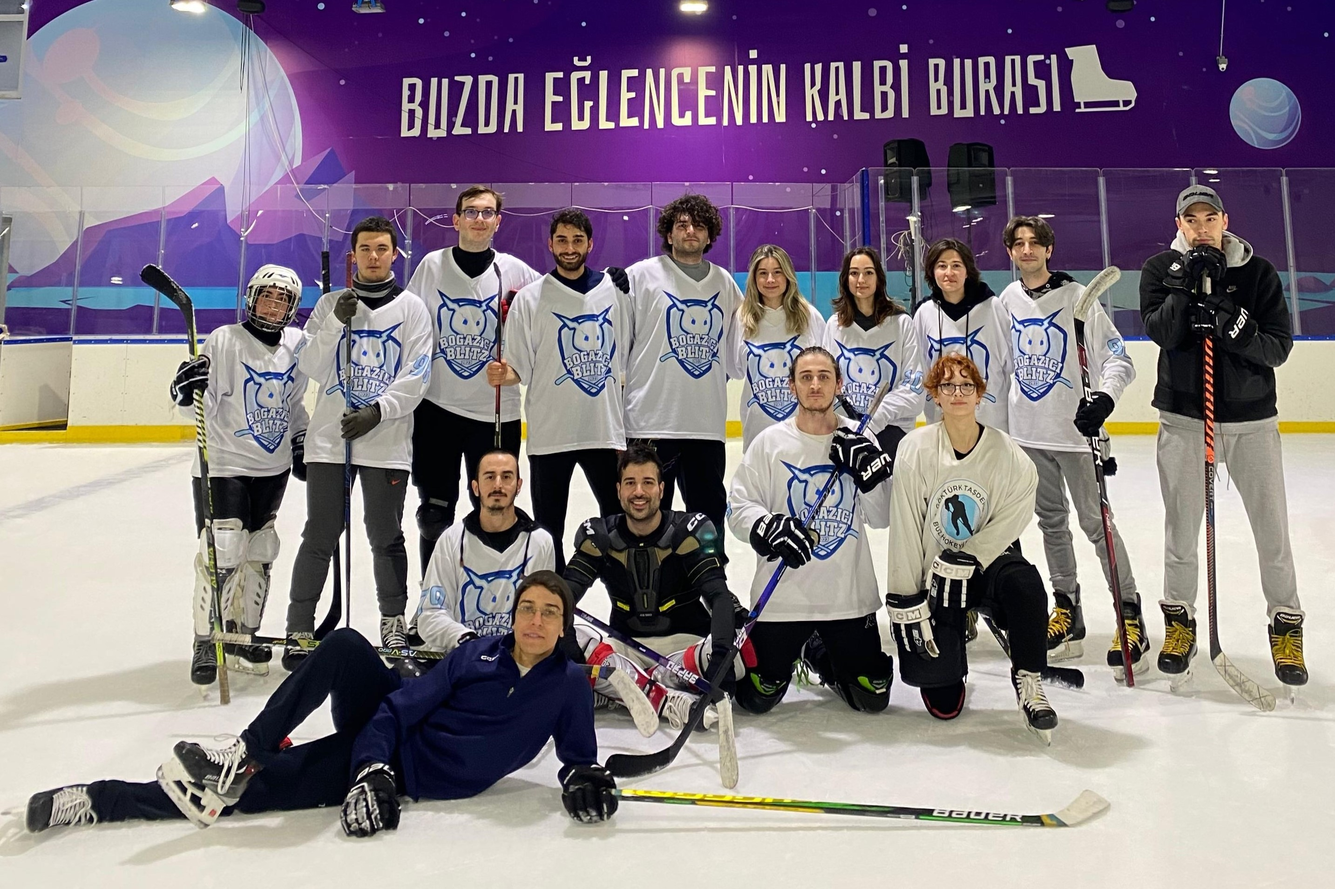
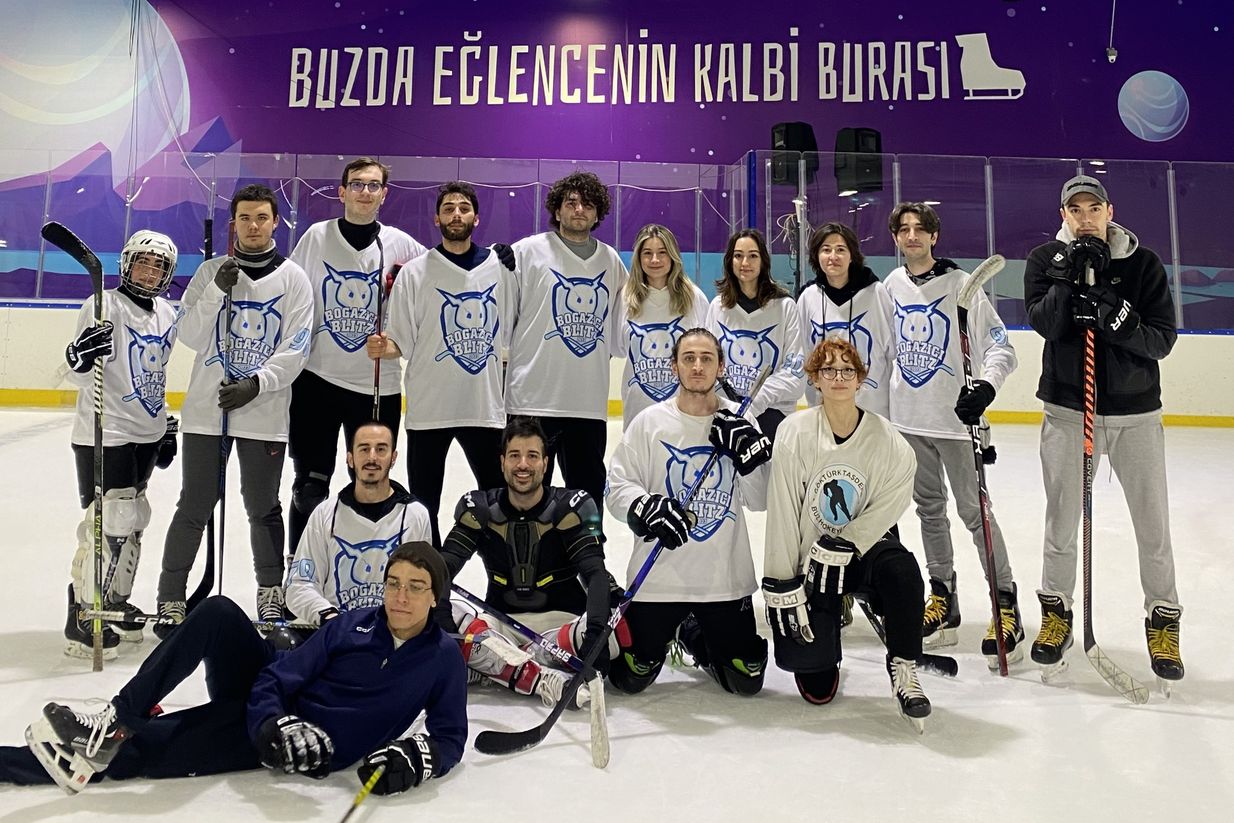
Main and team photos changed

diff --git a/data/projectsData.ts b/data/projectsData.ts
@@ -19,21 +19,21 @@ const projectsData = [
   {
     title: 'Sıtkı Mete Üçyiğitler',
     description: `İkinci Kaptan`,
-    imgSrc: '/static/images/takim-mete1.jpg',
+    imgSrc: '/static/images/takim-mete.jpg',
     //href: '/blog/the-time-machine',
   },
 
   {
     title: 'Sueda Buyuran',
     description: `Kadın Takımı Kaptanı`,
-    imgSrc: '/static/images/takim.jpg',
+    imgSrc: '/static/images/takim-sueda.jpg',
     //href: '/blog/the-time-machine',
   },
 
   {
     title: 'Umut Gür',
     description: `Yönetim`,
-    imgSrc: '/static/images/takim-umutyeni.jpg',
+    imgSrc: '/static/images/takim-umut.jpg',
     //href: '/blog/the-time-machine',
   },
 
@@ -45,22 +45,36 @@ const projectsData = [
   },
 
   {
+    title: 'Özgür Öcalan',
+    description: ``,
+    imgSrc: '/static/images/takim-ozgur.jpg',
+    //href: '',
+  },
+
+  {
     title: 'Atakan Çavuşoğlu',
     //description: ``,
-    imgSrc: '/static/images/takim.jpg',
+    imgSrc: '/static/images/takim-atakan.jpg',
+    //href: '',
+  },
+
+  {
+    title: 'Batın Has',
+    description: ``,
+    imgSrc: '/static/images/takim-batin.jpg',
+    //href: '',
+  },
+
+  {
+    title: 'A. Bera Bekdemir',
+    description: ``,
+    imgSrc: '/static/images/takim-bera.jpg',
     //href: '',
   },
   
   {
     title: 'Sude Soral',
     //description: ``,
-    imgSrc: '/static/images/takim.jpg',
-    //href: '',
-  }, 
-  
-  {
-    title: 'Özgür Öcalan',
-    description: ``,
     imgSrc: '/static/images/takim.jpg',
     //href: '',
   },
@@ -71,14 +85,7 @@ const projectsData = [
     imgSrc: '/static/images/takim.jpg',
     //href: '',
   },
-  
-  {
-    title: 'A. Bera Bekdemir',
-    description: ``,
-    imgSrc: '/static/images/takim.jpg',
-    //href: '',
-  },
-  
+
   {
     title: 'Çağatay Hancı',
     description: ``,
@@ -112,14 +119,7 @@ const projectsData = [
     description: ``,
     imgSrc: '/static/images/takim.jpg',
     //href: '',
-  },
-  
-  {
-    title: 'Batın Has',
-    description: ``,
-    imgSrc: '/static/images/takim.jpg',
-    //href: '',
-  },
+  }, 
   
   {
     title: 'İrem Alp',

diff --git a/app/rugtumu79/page.tsx b/app/rugtumu79/page.tsx
@@ -27,6 +27,22 @@ export default function Home() {
               />
             </video>*/}
             <h2>
+              <p>"Child,</p>
+              <p>Why did no one ever teach you that you cannot turn people into homes?</p>
+              <p></p>
+              <p>People are rivers,</p>
+              <p>Ever changing,</p>
+              <p>Ever flowing.</p>
+              <p>They will disappear with everything you put inside them."</p>
+              <p>-Nikita Gill</p>
+              <p></p>
+              <p>But, the thing is to flow together!</p>
+              <p></p>
+              <p></p>
+              <p></p>
+            </h2>
+
+            <h2>
               "Hangi hakikat olursa olsun, ne denli yıkıcı olursa olsun katlanabilir, yeter ki her
               şeyin yerini tutsun, yeter ki yerini aldığı umut kadar yaşamsallığı gözden kaçmasın."
               (E. M. Cioran, Doğmuş Olmanın Sakıncası Üzerine, Sf. 10)
